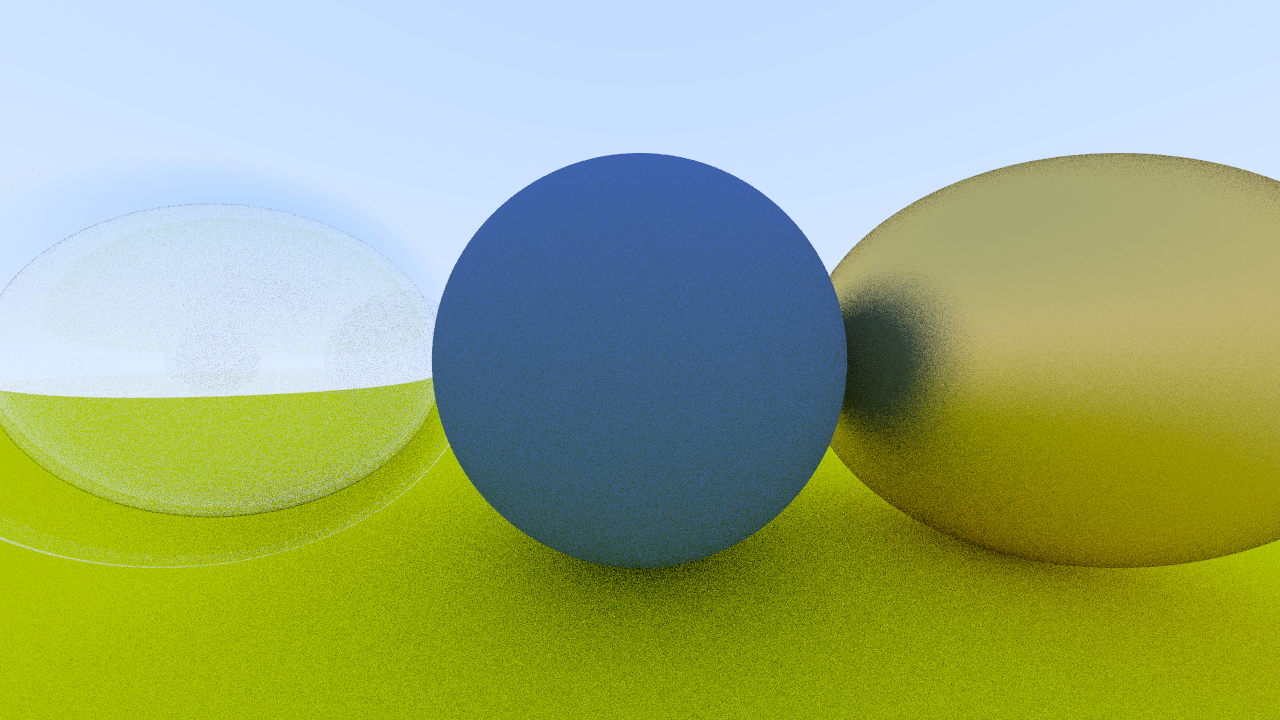
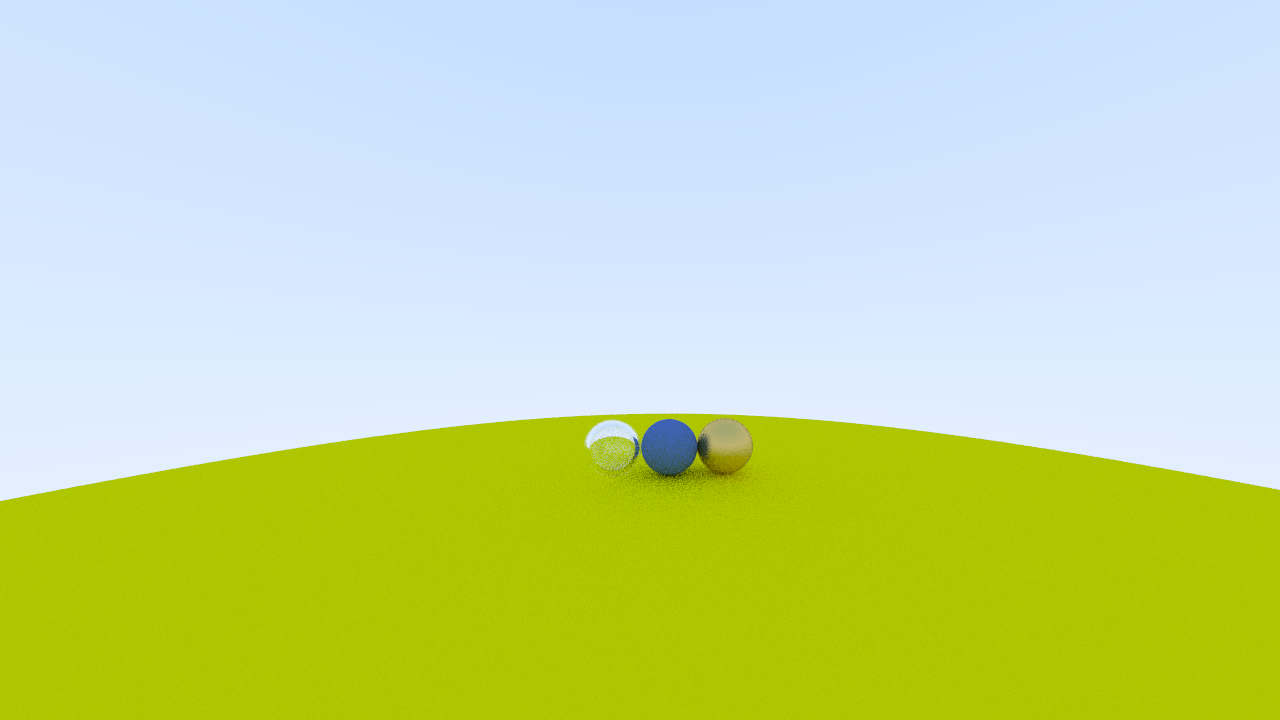
Camera at, from, up vertices

diff --git a/camera.h b/camera.h
@@ -10,28 +10,37 @@ class camera {
         vec3 vertical;
 
     public:
-        camera() {
-            auto aspect_ratio = 16.0 / 9.0;
+        camera(point3 lookfrom,
+               point3 lookat,
+               vec3 vup,
+               double vfov, // vertical field-of-view in degrees
+               double aspect_ratio) {
+            auto theta = degrees_to_radians(vfov);
+            auto h = tan(theta/2);
+
             // height of the viewport is 2.0 units (-1 to 1)
-            auto viewport_height = 2.0;
+            auto viewport_height = 2.0 * h;
             // height of the viewport width follows the aspect ratio
             auto viewport_width = aspect_ratio * viewport_height;
+
             // distance between projection plane and projection point
             auto focal_length = 1.0;
 
-            // note : going "into" the scene, is going to negatively into the z-axis
-            // camera origin
-            origin = point3(0, 0, 0);
+            auto w = unit_vector(lookfrom - lookat);
+            auto u = unit_vector(cross(vup, w));
+            auto v = cross(w, u);
+
+            origin = lookfrom;
             // x-axis range : 0 to viewport_width
-            horizontal = vec3(viewport_width, 0.0, 0.0);
+            horizontal = viewport_width * u;
             // y-axis range : 0 to viewport_height
-            vertical = vec3(0, viewport_height, 0);
+            vertical = viewport_height * v;
             lower_left_corner = origin - horizontal / 2
                                        - vertical / 2
                                        - vec3(0, 0, focal_length);
         }
 
-        ray get_ray(double u, double v) const {
-            return ray(origin, lower_left_corner + u * horizontal + v * vertical - origin);
+        ray get_ray(double s, double t) const {
+            return ray(origin, lower_left_corner + s * horizontal + t * vertical - origin);
         }
 };

diff --git a/main.cpp b/main.cpp
@@ -86,8 +86,12 @@ int main() {
     // Right sphere
     world.add(make_shared<sphere>(point3(1.0, 0.0, -1.0), 0.5, material_right));
 
-    // Camera
-    camera cam;
+    // Camera - 90.0 vertical fov (degrees), 16:9 aspect ratio
+    camera cam(point3(-0.5,1.5,5),  // vec3 lookfrom
+               point3(0,0,-1),      // vec3 lookat
+               vec3(0,1,0),         // vec3 vertical up
+               90.0,                // vertical fov (degrees)
+               aspect_ratio);       // (most likely) 16:9 aspect ratio
 
     // Render the image
     std::cout << "P3\n" << image_width << ' ' << image_height << "\n255\n";
